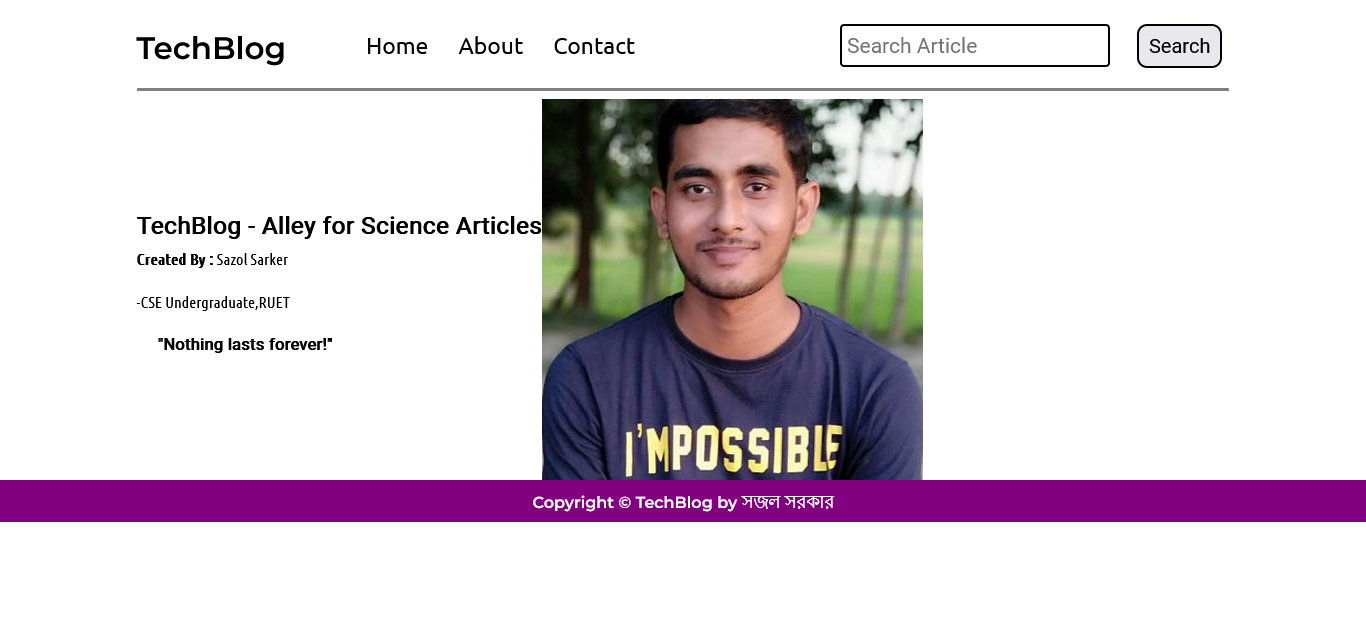
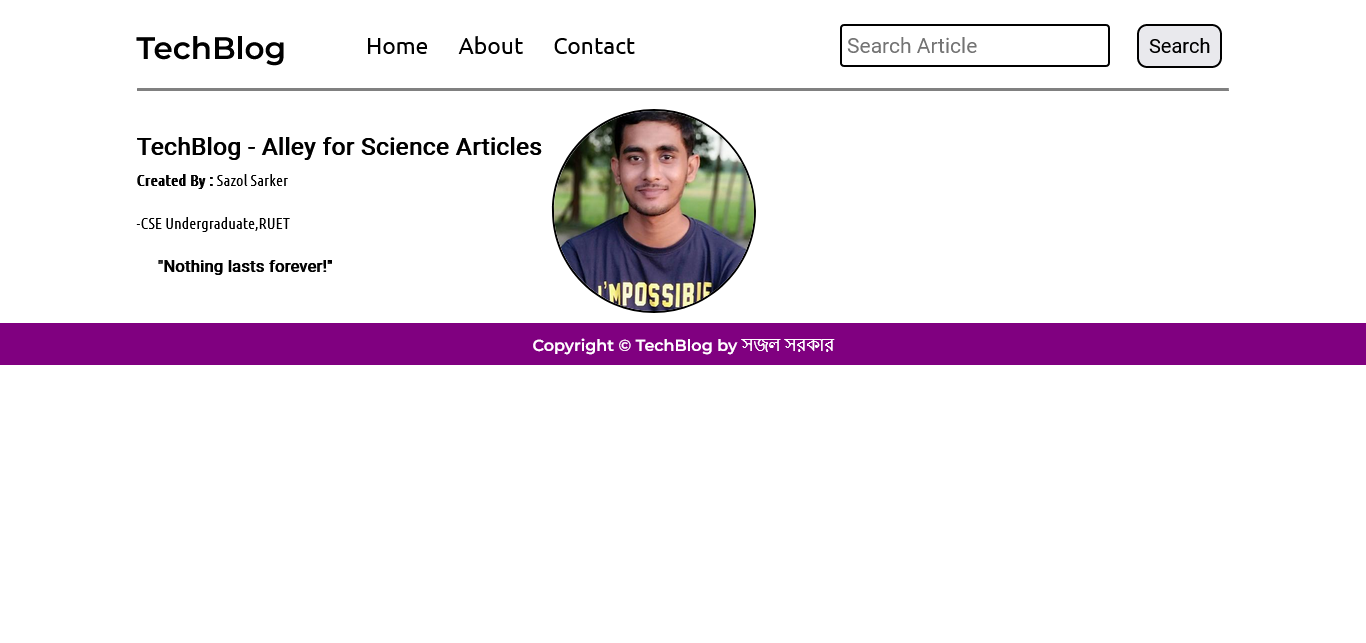
corrected about page design

Changed region(s): [[0.0, 0.1555, 1.0, 0.8087]]

diff --git a/about.html b/about.html
@@ -55,11 +55,14 @@
         <div class="content-right">
 
             <!-- <img src="img/article/civilization.jpg" alt="TechBlog"> -->
-            <img src="img/devAuth.jpg" alt="Developer">
+            <img src="img/devAuth.jpg" style="border: 2px solid black;
+            border-radius: 245px;
+            height: 200px;
+            margin: 10px;" alt="Developer">
         </div>
     </div>
         <!-- FOOTER -->
-        <div class="footer max-width-0 m-auto">
+        <div class="footer max-width-0 m-auto" >
             <!-- <a href="https://www.vecteezy.com/free-vector/school">School Vectors by Vecteezy</a>  -->
             Copyright &copy; TechBlog by সজল সরকার
         </div>
